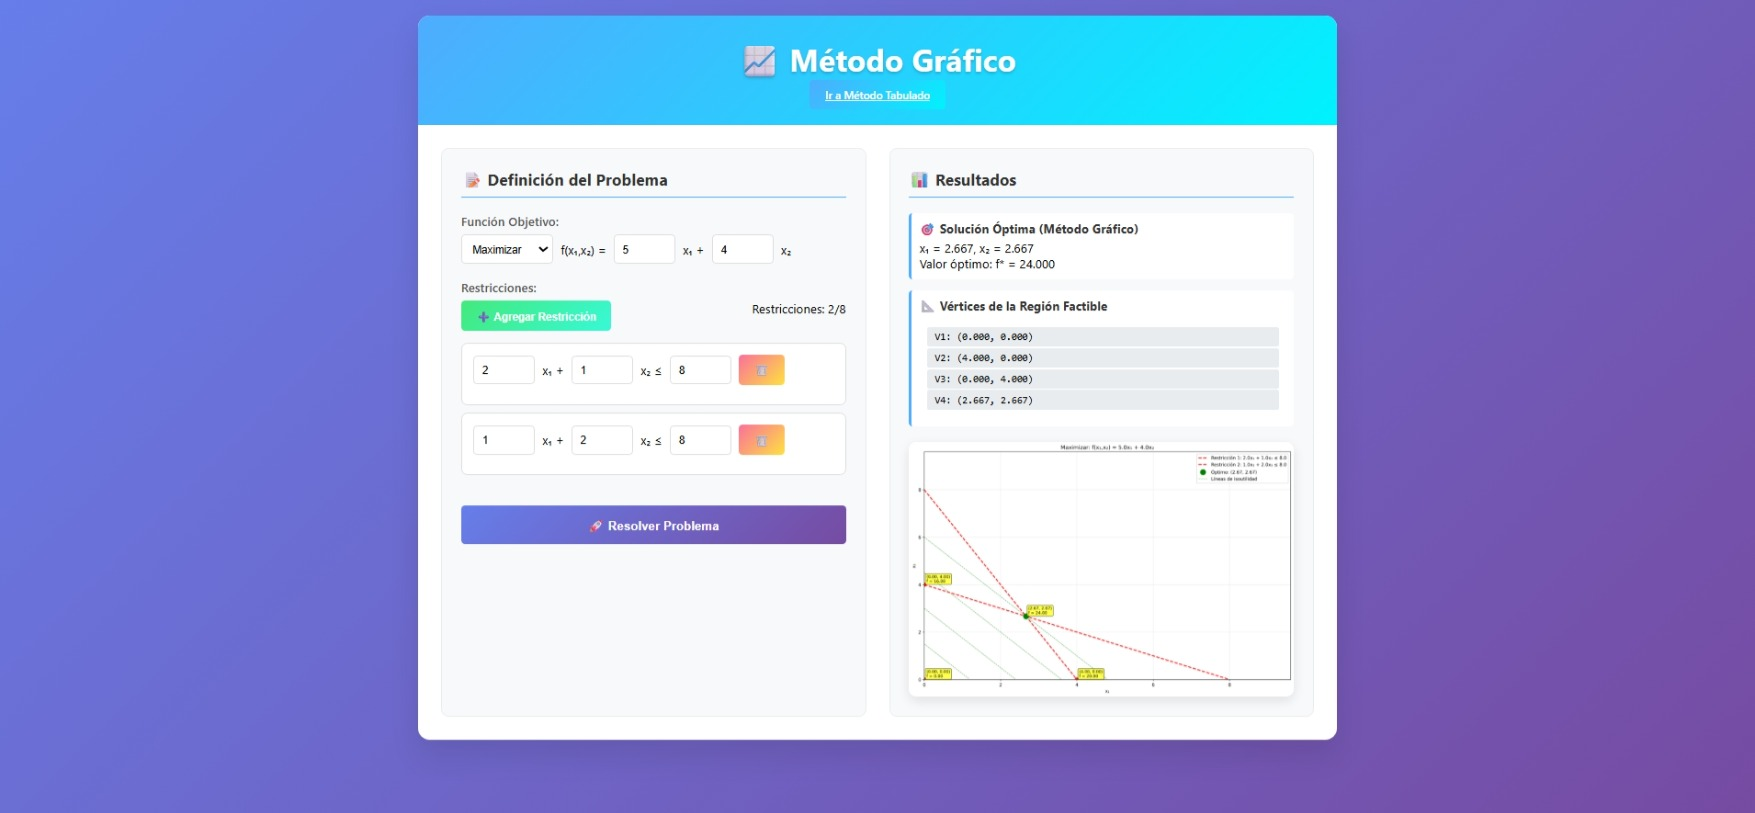
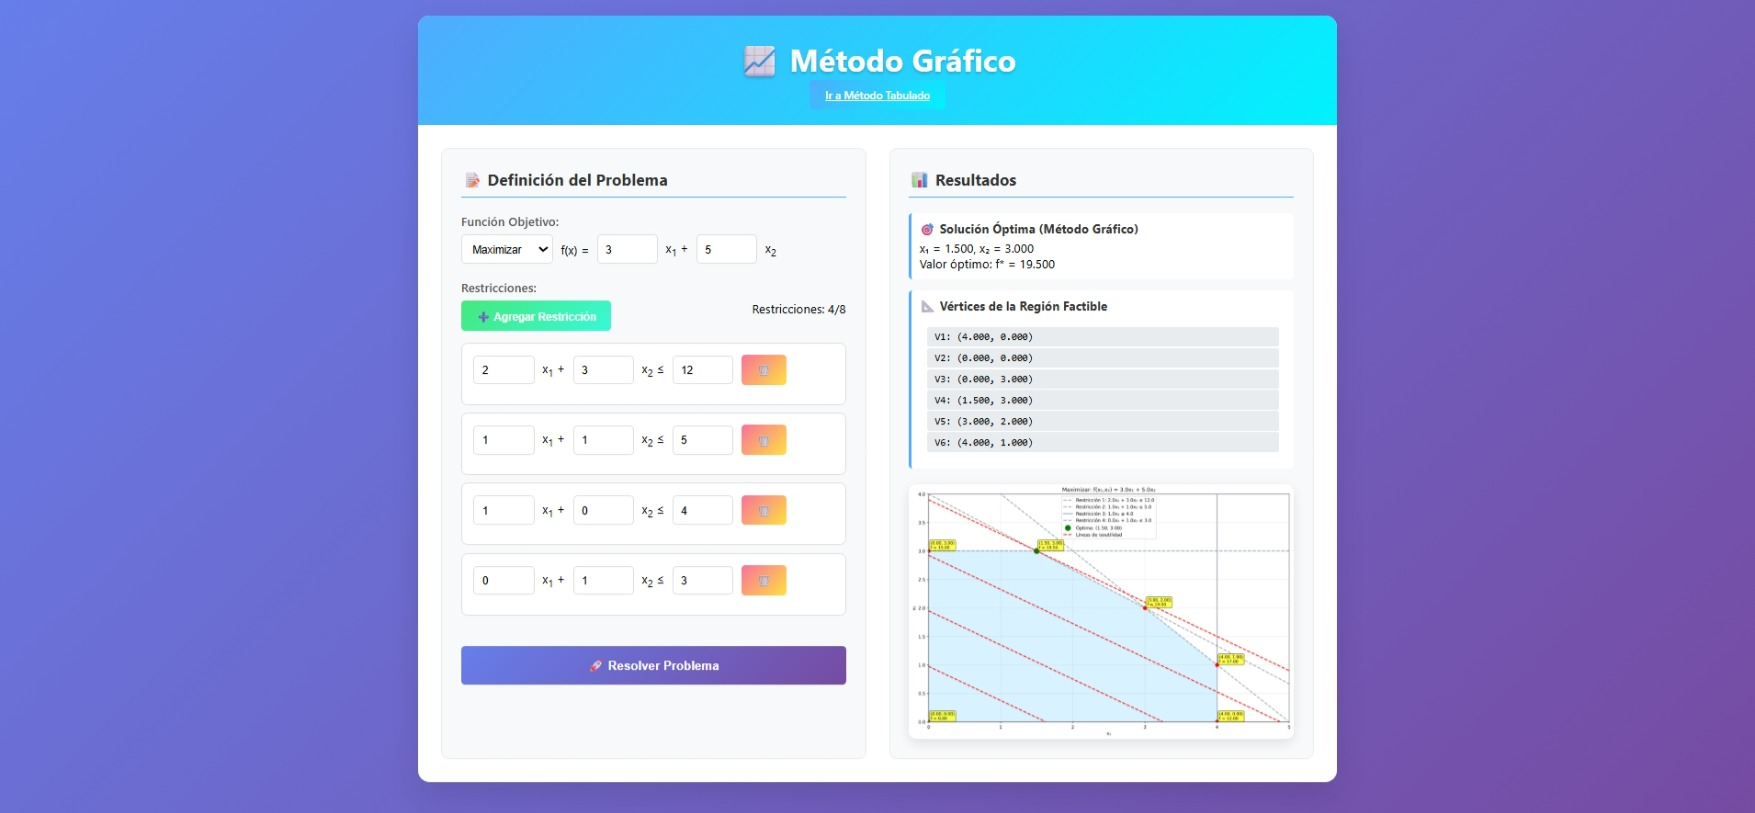
fix: modificar visualización del gráfico

diff --git a/grafico.py b/grafico.py
@@ -1,4 +1,6 @@
 import numpy as np
+import matplotlib
+matplotlib.use('Agg')
 import matplotlib.pyplot as plt
 from itertools import combinations
 import base64
@@ -180,20 +182,20 @@ def resolver_problema_grafico(c, A, b, maximizar=True, xlim=(0,10), ylim=(0,10),
     factible &= A[i][0] * X + A[i][1] * Y <= b[i]
 
   # Sombrear región factible
-  ax.contourf(X, Y, factible.astype(int), levels=[0,1], colors=['white', 'lightblue'], alpha=0.5)
+  ax.contourf(X, Y, factible.astype(int), levels=[0.5, 1.5], colors=['#b3e6ff'], alpha=0.5)
 
   # Dibujar lineas de restricción
   for i, (coefs,b_i) in enumerate(zip(A,b)):
     if coefs[1] != 0:
       y_linea = (b_i - coefs[0] * x) / coefs[1]
       mascara = (y_linea >= ylim[0]) & (y_linea <= ylim[1])
-      ax.plot(x[mascara], y_linea[mascara], 'r--', linewidth=2,
+      ax.plot(x[mascara], y_linea[mascara], color='slategrey', linestyle='dashed', linewidth=2, alpha=0.7,
               label=f'Restricción {i+1}: {coefs[0]:.1f}x₁ + {coefs[1]:.1f}x₂ ≤ {b_i:.1f}')
 
     else:
       x_linea = b_i / coefs[0]
       if xlim[0] <= x_linea <= xlim[1]:
-        ax.axvline(x=x_linea, color='r', linewidth=2,
+        ax.axvline(x=x_linea, color='slategrey', linewidth=2, alpha=0.8,
                    label=f'Restricción {i+1}: {coefs[0]:.1f}x₁ ≤ {b_i:.1f}')
 
   # Encontrar y evaluar vértices para encontrar punto optimo
@@ -233,8 +235,18 @@ def resolver_problema_grafico(c, A, b, maximizar=True, xlim=(0,10), ylim=(0,10),
                 mascara = (y_obj >= ylim[0]) & (y_obj <= ylim[1])
                 if np.any(mascara):
                     label_iso = 'Líneas de isoutilidad' if i == 0 else None
-                    ax.plot(x[mascara], y_obj[mascara], 'g--', alpha=0.7, linewidth=1,
+                    ax.plot(x[mascara], y_obj[mascara], 'r--', linewidth=2,
                             label = label_iso)
+                    
+  # Ajustar límites automáticamente si hay vértices
+  if vertices:
+      xs, ys = zip(*vertices)
+      min_x, max_x = min(xs), max(xs)
+      min_y, max_y = min(ys), max(ys)
+      margen_x = max((max_x - min_x) * 0.1, 1)
+      margen_y = max((max_y - min_y) * 0.1, 1)
+      xlim = (max(0, min_x - margen_x), max_x + margen_x)
+      ylim = (max(0, min_y - margen_y), max_y + margen_y)
 
   # Configurar gráfico
   ax.set_xlim(xlim)

diff --git a/tabulado.py b/tabulado.py
@@ -73,7 +73,6 @@ def resolver_problema_tabulado(c, A, b, maximizar=True):
     z = table[-1, -1]
 
     # Análisis de sensibilidad: valores sombra (precios sombra)
-    # Análisis de sensibilidad: valores sombra (precios sombra)
     shadow_prices = -table[-1, n_vars:n_vars + n_constraints]
     analisis_sensibilidad = []
 
